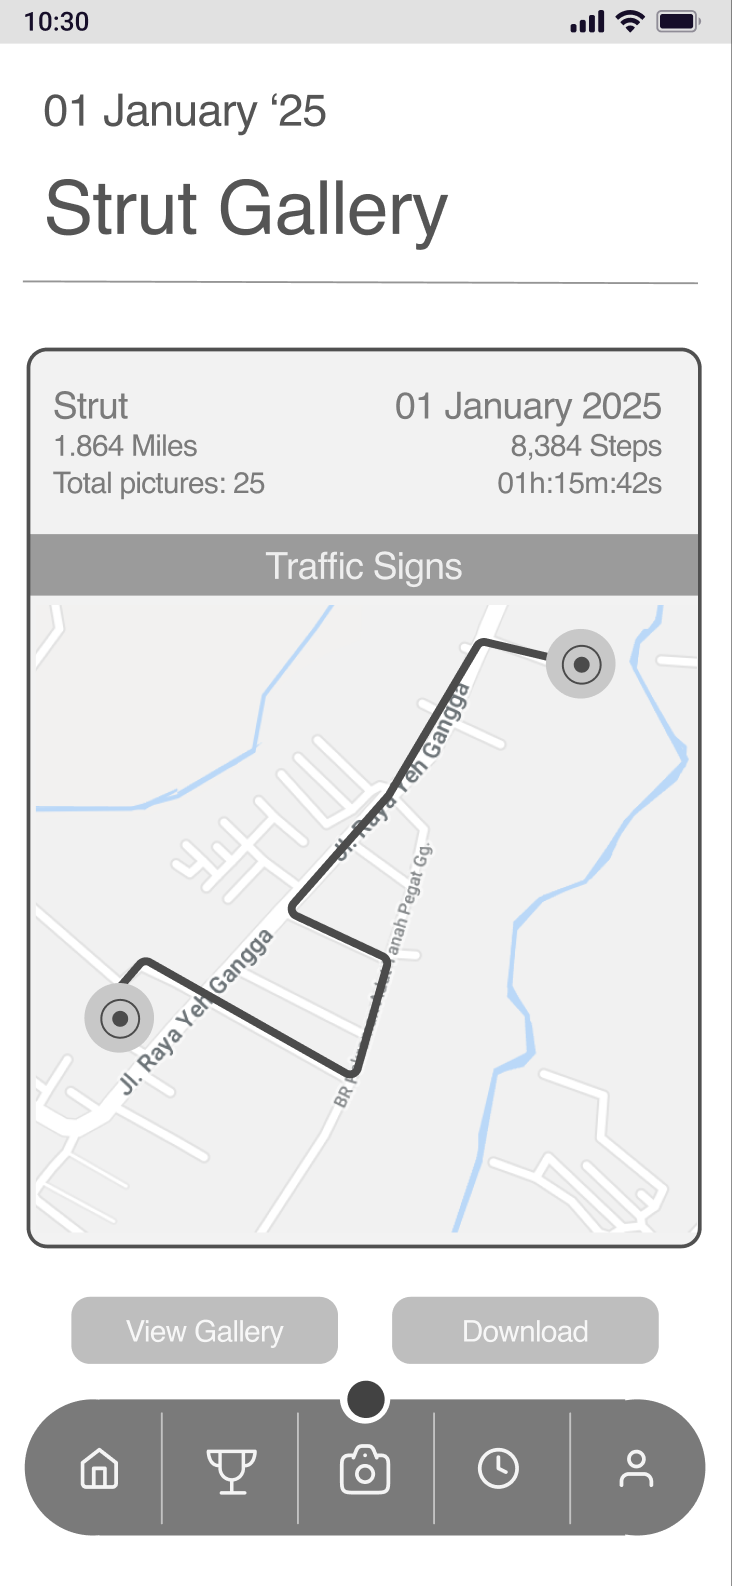
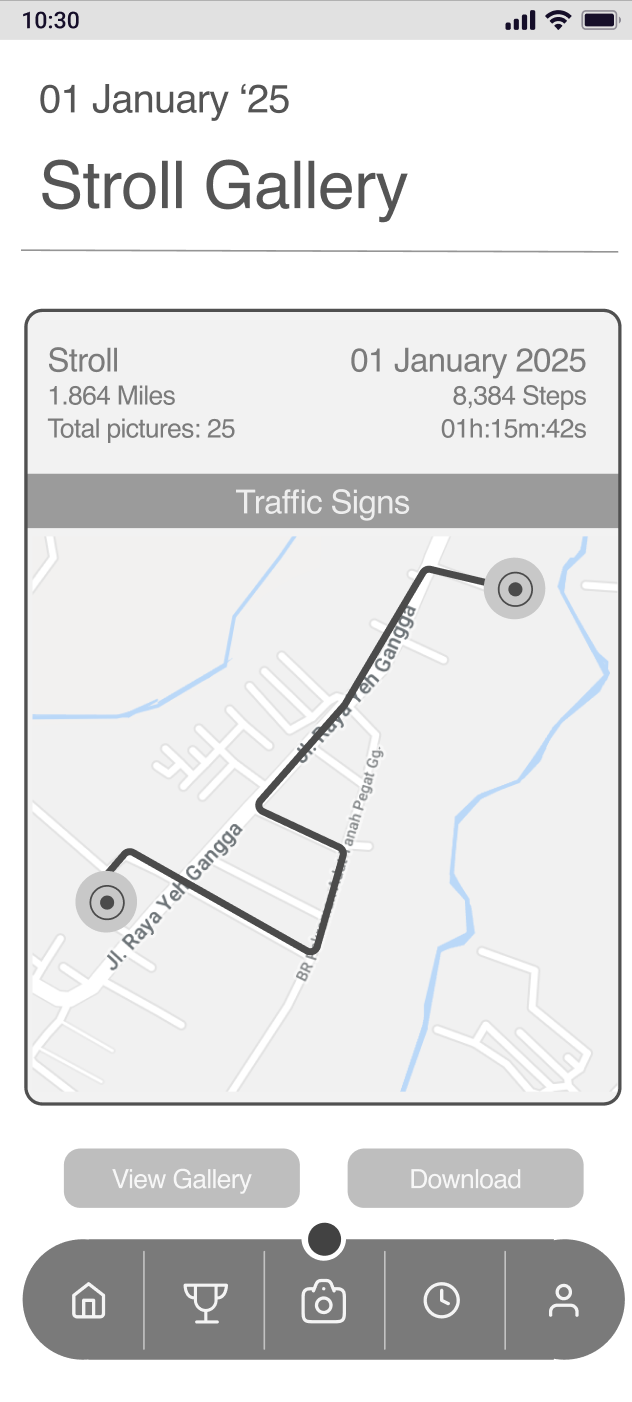
Business Plan, IA, New wireframes

diff --git a/ux_research.html b/ux_research.html
@@ -57,7 +57,7 @@
                         Value Proposition
                     </h1>
                     <div class="progressPhoto">
-                        <p>Steps is the walk companion app that allows the productive age group to find purpose in walking by gamifying daily walks into scavenger hunts.</p>
+                        <p>Stroll is the walk companion app that allows the productive age group to find purpose in walking by gamifying daily walks into scavenger hunts.</p>
                         <br>
                         
                 
@@ -163,19 +163,66 @@
                 </div>
 
                 <div class="reflection">
+                    <h1 class="reflectionTitle">Business Plan</h1>
+                        <div class="">
+                            <img src="assets/Documentation/UX Startup/Business Plan.png" class="persona">
+                            <h3>Business Plan</h3>
+                            </div>
+                </div>
+
+                <div class="reflection">
+                    <h1 class="reflectionTitle">Information Architecture</h1>
+                        <div class="progressPhoto IA">
+                            <div>
+                            <img src="assets/Documentation/UX Startup/Information Architecture.png">
+                            <h3>Information Architecture</h3>
+                            </div>
+                             <div>
+                            <img src="assets/Documentation/UX Startup/2x2.png">
+                            <h3>Value & Effort 2x2</h3>
+                            </div>
+                            <a href="https://www.figma.com/board/GMlA75zeYrOq1b1aikIs4i/Information-Architecture?node-id=0-1&t=pYRB9vrnel0BhEtM-1">Link to Figma File Here</a>
+                        </div>
+                </div>
+
+                <!-- <div id="content-buttons">
+                    <div class="button-left">
+                        <div class="buttonLeft"></div>
+                    </div>
+                    <div class="button-center">
+                        <div class="content-backToTop"></div>
+                    </div>
+                    <div class="button-right">
+                        <div class="visitSite"></div>
+                  
+                    </div>
+                    
+                    
+                </div> -->
+
+                <div class="reflection">
                     <h1 class="reflectionTitle">Wireframes</h1>
+                    <div class="wireframe-container">
                         <div class="progressPhoto wireframe">
                             <div>
-                            <img src="assets/Documentation/UX Startup/Wireframes/Home page-wireframe.png">
-                            <h3>Home page</h3>
+                            <img src="assets/Documentation/UX Startup/Wireframes/Home page 1-wireframe.png">
+                            <h3>Home page 1</h3>
+                            </div>
+                             <div>
+                            <img src="assets/Documentation/UX Startup/Wireframes/Home page2-wireframe.png">
+                            <h3>Home page 2</h3>
                             </div>
                              <div>
                             <img src="assets/Documentation/UX Startup/Wireframes/Statistics-wireframe.png">
                             <h3>Statistics pop-up</h3>
                             </div>
                              <div>
-                            <img src="assets/Documentation/UX Startup/Wireframes/Challenges-wireframe.png">
-                            <h3>Challenges</h3>
+                            <img src="assets/Documentation/UX Startup/Wireframes/Challenges1-wireframe.png">
+                            <h3>Challenges 1</h3>
+                            </div>
+                              <div>
+                            <img src="assets/Documentation/UX Startup/Wireframes/Challenges2-wireframe.png">
+                            <h3>Challenges 2</h3>
                             </div>
                              <div>
                             <img src="assets/Documentation/UX Startup/Wireframes/Photo capture-wireframe.png">
@@ -190,30 +237,26 @@
                             <h3>Map view</h3>
                             </div>
                                <div>
-                            <img src="assets/Documentation/UX Startup/Wireframes/HIstory-wireframe.png">
-                            <h3>History</h3>
+                            <img src="assets/Documentation/UX Startup/Wireframes/History1-wireframe.png">
+                            <h3>History 1</h3>
+                            </div>
+                             <div>
+                            <img src="assets/Documentation/UX Startup/Wireframes/HIstory2-wireframe.png">
+                            <h3>History 2</h3>
                             </div>
                             <br>
-     
+                              
                         </div>
+
+                          <div>
+                             <a href="https://www.figma.com/design/903QIIWfMk5IKzR4blDvEU/Strut-wireframe?node-id=0-1&t=kKKbSCgQeP5iiy2N-1">Link to Figma File Here</a>
+                        </div>
+                        </div>
+                      
+
+                       
                 </div>
 
-                
-
-                <div id="content-buttons">
-                    <div class="button-left">
-                        <div class="buttonLeft"></div>
-                    </div>
-                    <div class="button-center">
-                        <div class="content-backToTop"></div>
-                    </div>
-                    <div class="button-right">
-                        <div class="visitSite"></div>
-                  
-                    </div>
-                    
-                    
-                </div>
 
                  <div class="backToTop"></div>
             </div>

diff --git a/style.css b/style.css
@@ -1043,12 +1043,18 @@ img.progressPhoto:hover,
 video.progressPhoto:hover {
     transform: scale(1.05);
 }
-
+.wireframe-container{
+    display: flex;
+    flex-direction: column;
+}
 .wireframe img{
     height: 60vh;
     width: auto;
 }
 
+.IA *{
+    width: 100%;
+}
 
 .content-left,
 .progressTitle,
